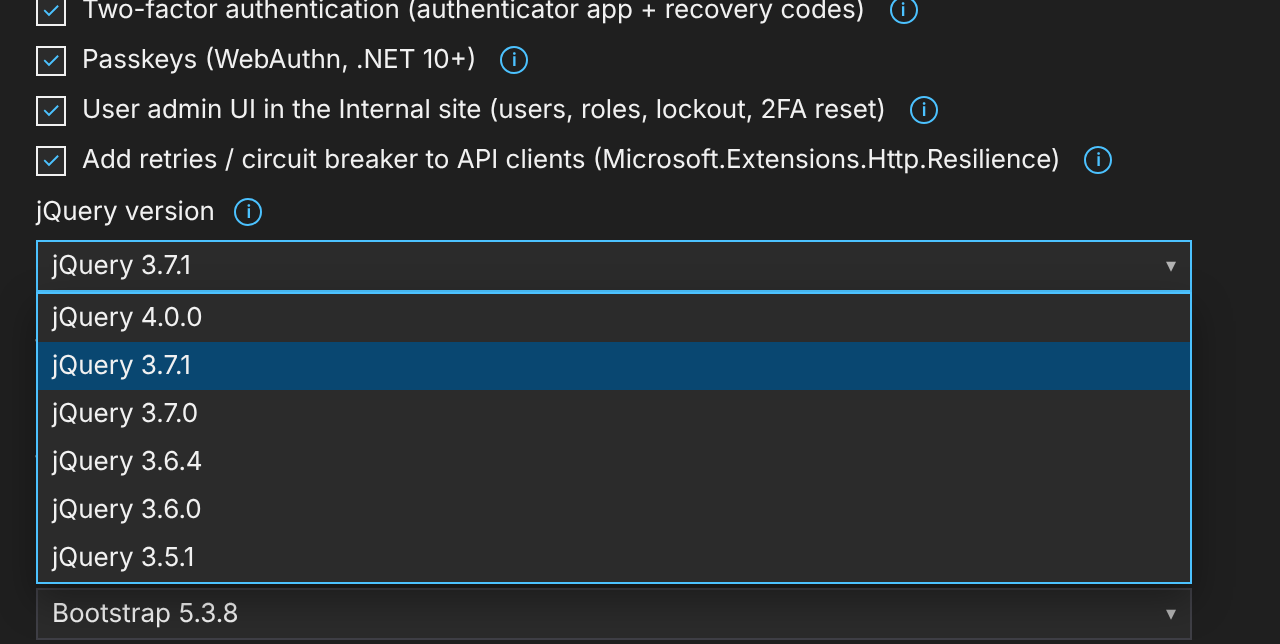
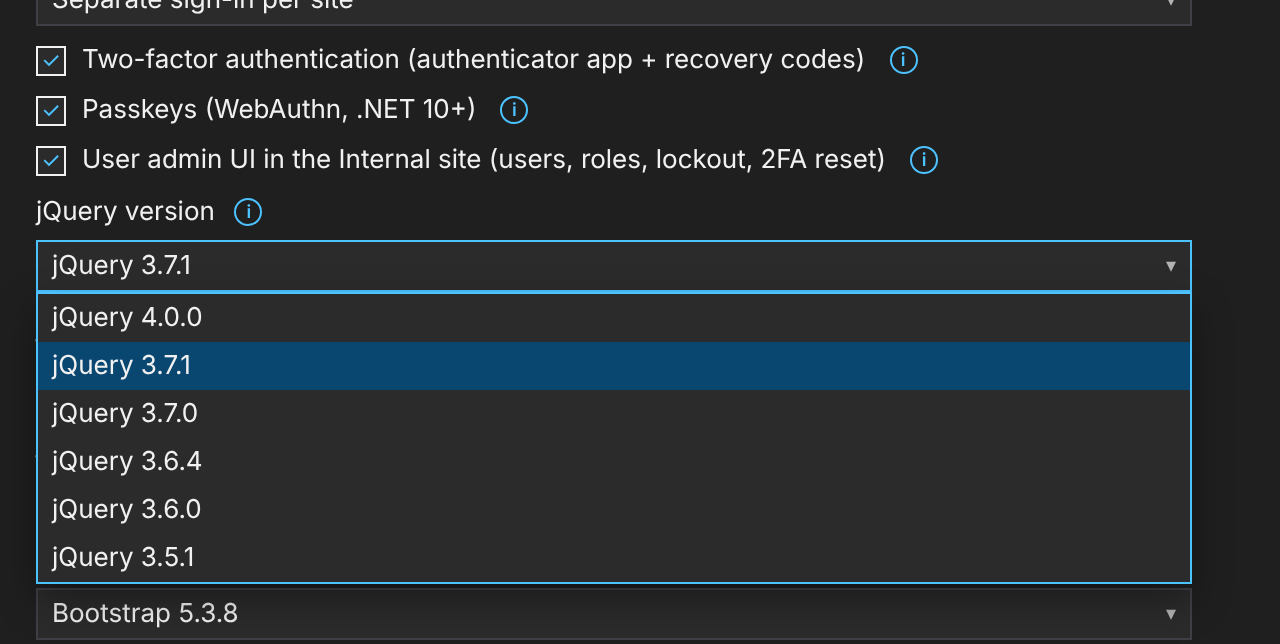
Remove the Resilience option
Drops --resilience (Microsoft.Extensions.Http.Resilience on the sites'
API clients) from the template, the VS dialog, the CLI, the multi-step
wizard and the web configurator, and updates the docs and screenshots.

Claude-Session: https://claude.ai/code/session_01ANSfdCdULPG9fJJcP8sDvG

Changed region(s): [[0.0312, 0.0, 0.7188, 0.1242], [0.0625, 0.2174, 0.875, 0.2795], [0.0625, 0.1553, 0.75, 0.1863]]

diff --git a/configurator/wizard-data.js b/configurator/wizard-data.js
@@ -332,15 +332,6 @@ window.WIZARD_DATA = {
    "choices": [],
    "cli": "--error-monitoring-key"
   },
-  "IncludeResilience": {
-   "id": "IncludeResilience",
-   "kind": "bool",
-   "label": "Add retries / circuit breaker to API clients (Microsoft.Extensions.Http.Resilience)",
-   "description": "Adds the standard resilience handler (Polly) to the sites' typed HttpClients.",
-   "default": "true",
-   "choices": [],
-   "cli": "--resilience"
-  },
   "InternalAuthentication": {
    "id": "InternalAuthentication",
    "kind": "choice",
@@ -927,8 +918,7 @@ window.WIZARD_DATA = {
     "IdentitySignIn",
     "IdentityTwoFactor",
     "IdentityPasskeys",
-    "IdentityAdminUi",
-    "IncludeResilience"
+    "IdentityAdminUi"
    ]
   },
   {
@@ -1078,18 +1068,6 @@ window.WIZARD_DATA = {
     ],
     "InternalAuthentication": [
      "EntraId"
-    ]
-   }
-  ],
-  "IncludeResilience": [
-   {
-    "IncludeInternal": [
-     "true"
-    ]
-   },
-   {
-    "IncludeExternal": [
-     "true"
     ]
    }
   ],
@@ -1888,11 +1866,6 @@ window.WIZARD_DATA = {
     "glyph": "E81C",
     "color": "#1F6FEB"
    },
-   "IncludeResilience": {
-    "fa": "fa-solid fa-rotate",
-    "glyph": "E72C",
-    "color": "#0E7490"
-   },
    "IncludeJQueryValidation": {
     "fa": "fa-solid fa-circle-check",
     "glyph": "E73E",
@@ -1955,7 +1928,6 @@ window.WIZARD_DATA = {
    "IncludeApiKey": "API key",
    "IncludeHealthChecks": "Health checks",
    "IncludeSerilog": "Serilog",
-   "IncludeResilience": "Resilience",
    "IncludeJQueryValidation": "jQuery Validation",
    "IncludeDataTables": "DataTables",
    "IncludeSelect2": "Select2",
@@ -1996,12 +1968,6 @@ window.WIZARD_DATA = {
       "IdentityTwoFactor",
       "IdentityPasskeys",
       "IdentityAdminUi"
-     ]
-    ],
-    [
-     "Sites",
-     [
-      "IncludeResilience"
      ]
     ]
    ],

diff --git a/templates/RazorSolution/src/TemplateApp.External/ApiClients/ApiClientServiceCollectionExtensions.cs b/templates/RazorSolution/src/TemplateApp.External/ApiClients/ApiClientServiceCollectionExtensions.cs
@@ -55,11 +55,6 @@ public static class ApiClientServiceCollectionExtensions
             builder.AddHttpMessageHandler<UserTokenHandler>();
         }
 #endif
-#if (IncludeResilience)
-
-        // Retries, timeouts and a circuit breaker (Microsoft.Extensions.Http.Resilience / Polly).
-        builder.AddStandardResilienceHandler();
-#endif
 
         return builder;
     }

diff --git a/templates/RazorSolution/src/TemplateApp.Internal/ApiClients/ApiClientServiceCollectionExtensions.cs b/templates/RazorSolution/src/TemplateApp.Internal/ApiClients/ApiClientServiceCollectionExtensions.cs
@@ -60,11 +60,6 @@ public static class ApiClientServiceCollectionExtensions
             builder.AddHttpMessageHandler<UserTokenHandler>();
         }
 #endif
-#if (IncludeResilience)
-
-        // Retries, timeouts and a circuit breaker (Microsoft.Extensions.Http.Resilience / Polly).
-        builder.AddStandardResilienceHandler();
-#endif
 
         return builder;
     }

diff --git a/README.md b/README.md
@@ -13,7 +13,7 @@ Like the [Shiny .NET templates](https://github.com/shinyorg/templates), all the 
 - sign-in with ASP.NET Core Identity (two-factor, passkeys, user admin UI), separate per site or single sign-on
 - a light / dark mode toggle in both sites (Bootstrap 5.3 colour modes)
 - API documentation with Swagger UI or Scalar
-- optional extras: DataTables, Select2, Toastr, SweetAlert2, Chart.js, Serilog, health checks, an API key, resilience and unit tests
+- optional extras: DataTables, Select2, Toastr, SweetAlert2, Chart.js, Serilog, health checks, an API key and unit tests
 
 Every client library is installed with **LibMan**.
 
@@ -196,7 +196,7 @@ flowchart LR
 
 Also in every solution:
 
-- **Central Package Management.** Every NuGet version is set in `Directory.Packages.props`. EF Core, Npgsql, Serilog and resilience package versions match the framework you pick.
+- **Central Package Management.** Every NuGet version is set in `Directory.Packages.props`. EF Core, Npgsql and Serilog package versions match the framework you pick.
 - **Shared build settings** in `Directory.Build.props`.
 - **A README in the generated solution** that covers the options you picked: how to run it, add API clients and entities, use migrations and LibMan, and the security and operations features.
 
@@ -304,7 +304,7 @@ dotnet new list razorsln
 dotnet new razorsln -n MyCompany.Portal
 ```
 
-That uses every default: .NET 8; Internal, External, API, Services, SqlRepository and Tests; SQL Server 2022 on LocalDB with Windows authentication; jQuery 3.7.1, jQuery UI 1.14.2 (base), Bootstrap 5.3.8, Font Awesome Free 6.7.2, jQuery Validation, DataTables and Toastr; Swagger, health checks and resilience.
+That uses every default: .NET 8; Internal, External, API, Services, SqlRepository and Tests; SQL Server 2022 on LocalDB with Windows authentication; jQuery 3.7.1, jQuery UI 1.14.2 (base), Bootstrap 5.3.8, Font Awesome Free 6.7.2, jQuery Validation, DataTables and Toastr; Swagger and health checks.
 
 ```bash
 # Staff-only portal on .NET 10 with Windows sign-in, Serilog and an API key
@@ -397,7 +397,6 @@ dotnet new razorsln -n MyCompany.Portal --dry-run
 | Passkeys (Identity) | `--identity-passkeys` | WebAuthn passkeys; needs .NET 10 or later | **true** |
 | User admin UI (Identity) | `--identity-admin` | Internal site: users, roles, lock/unlock, reset 2FA, remove passkeys, delete | **true** |
 | Entra ID tenant / client ID | `--entra-tenant-id`, `--entra-client-id` | | blank (placeholder GUIDs) |
-| Resilience for API clients | `--resilience` | Microsoft.Extensions.Http.Resilience | **true** |
 
 ### Front end (LibMan)
 
@@ -592,7 +591,7 @@ Restart Visual Studio afterwards.
 | `configurator/` | The browser version of the wizard (`index.html`, generated `wizard-data.js`, `build-data.js`). |
 | `.github/workflows/template-tests.yml` | CI: runs the template matrix, builds and tests the wizard (with a PostgreSQL service), and builds the `.vsix` on Windows. |
 
-To add a version to a picker, add a `choices` entry in `template.json`: for example `BootstrapVersion` (a matching Bootswatch version must exist), `JQueryVersion` or `FontAwesomeVersion`. For a new .NET release, add a `Framework` choice and cases to the `EfCoreVersion`, `NpgsqlVersion`, `SwashbuckleVersion`, `SerilogVersion` and `ResilienceVersion` switches. Then run:
+To add a version to a picker, add a `choices` entry in `template.json`: for example `BootstrapVersion` (a matching Bootswatch version must exist), `JQueryVersion` or `FontAwesomeVersion`. For a new .NET release, add a `Framework` choice and cases to the `EfCoreVersion`, `NpgsqlVersion`, `SwashbuckleVersion` and `SerilogVersion` switches. Then run:
 
 ```bash
 tests/test-template.sh

diff --git a/templates/RazorSolution/README.md b/templates/RazorSolution/README.md
@@ -222,7 +222,7 @@ The sites sign people in through the API (`/api/account/login`, `/refresh`, `/me
 <!--#endif -->
 * **Email:** confirmation and password-reset emails are not sent yet. Register an `IEmailSender<ApplicationUser>` in the API, then set `SignIn.RequireConfirmedAccount = true` in `Identity/IdentitySetup.cs`.
 <!--#endif -->
-<!--#if (UseInternalAuth || UseApiKey || IncludeHealthChecks || IncludeSerilog || IncludeResilience || UseErrorMonitoring) -->
+<!--#if (UseInternalAuth || UseApiKey || IncludeHealthChecks || IncludeSerilog || UseErrorMonitoring) -->
 
 ## Security and operations
 
@@ -257,9 +257,6 @@ The sites sign people in through the API (`/api/account/login`, `/refresh`, `/me
   * **Settings:** `RaygunSettings:ApiKey` in each `appsettings.json`. Raygun stays off until an `ApiKey` is set.
 <!--#elseif (UseAppInsights) -->
 * **Error monitoring, Azure Application Insights:** the API and both sites call `AddApplicationInsightsTelemetry()`. This sends exceptions, requests, dependencies (including the sites' calls to the API) and logs to Azure Monitor. Set `ApplicationInsights:ConnectionString` in `appsettings.json`, or the `APPLICATIONINSIGHTS_CONNECTION_STRING` environment variable (as App Service does). Telemetry stays off until a connection string is set.
-<!--#endif -->
-<!--#if (IncludeResilience) -->
-* **Resilience:** the sites' API clients use `AddStandardResilienceHandler()`, which adds retries with back-off, timeouts and a circuit breaker.
 <!--#endif -->
 <!--#endif -->
 <!--#if (UseTests) -->
